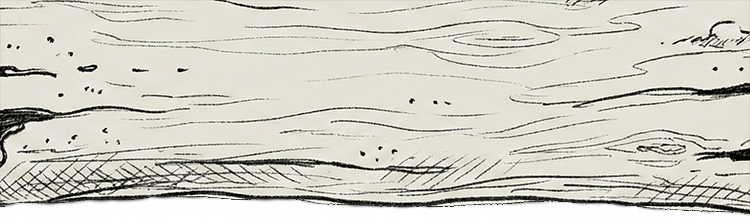
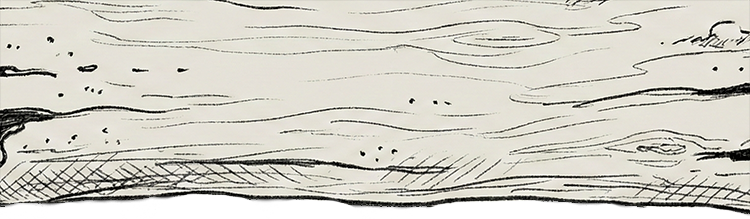
fix bugs

diff --git a/frontend-app/lib/navigation/main_scaffold.dart b/frontend-app/lib/navigation/main_scaffold.dart
@@ -80,6 +80,13 @@ class MainScaffoldState extends State<MainScaffold> {
 
   @override
   Widget build(BuildContext context) {
+    // 🔥 定义自定义标题栏的总高度（根据你的图片实际情况调整）
+    // 这个高度需要包含状态栏高度 + 标题内容高度 + 底部不规则边缘延伸出的高度
+    const double customHeaderHeight = 130.0; // 🔥 你可以根据实际显示效果微调这个数字
+
+    // 获取状态栏高度，用于后续计算内边距
+    final double statusBarHeight = MediaQuery.of(context).padding.top;
+
     return PopScope(
       // 拦截返回键，防止返回到 LandingPage
       canPop: false, // 不允许返回到上一页
@@ -113,41 +120,74 @@ class MainScaffoldState extends State<MainScaffold> {
         }
       },
       child: Scaffold(
-        appBar: AppBar(
-          automaticallyImplyLeading: false, // 去掉返回箭头
-          title: Row(
-            mainAxisSize: MainAxisSize.min,
-            children: [
-              // 海獭emoji作为图标
-              const Text('🦦', style: TextStyle(fontSize: 28)),
-              const SizedBox(width: 8),
-              const Text(
-                'CalOtter',
-                style: TextStyle(
-                  fontFamily: 'PatrickHand',
-                  fontSize: 24,
-                  fontWeight: FontWeight.w700,
+        // 🔥 关键修改 1: 彻底移除标准的 appBar 属性
+        // appBar: AppBar( ... ),
+
+        // 🔥 关键修改 2: 将 body 改为 Stack
+        body: Stack(
+          children: [
+            // --- 2.1 底层：页面内容 ---
+            Positioned.fill(
+              // ✅ 这里的 Padding 很重要。
+              // 我们需要让页面内容从顶部向下偏移一定的距离，否则内容会被标题栏完全挡住。
+              // 偏移量通常是 (状态栏高度 + 标准导航栏高度) 左右，不需要完全等于 customHeaderHeight，
+              // 这样可以让内容稍微滑入不规则边缘的下方。
+              top: statusBarHeight + kToolbarHeight,
+              child: _selectedIndex < _pages.length
+                  ? _pages[_selectedIndex]
+                  : _pages[0],
+            ),
+
+            // --- 2.2 顶层：自定义不规则标题栏 ---
+            Positioned(
+              top: 0,
+              left: 0,
+              right: 0,
+              height: customHeaderHeight, // 设置自定义标题区域的高度
+              child: Container(
+                // ✅ 使用 BoxDecoration 设置背景图
+                decoration: const BoxDecoration(
+                  image: DecorationImage(
+                    image: AssetImage('assets/images/title.png'),
+                    // 🔥 关键：使用 BoxFit.cover 并顶部对齐
+                    // 这样可以保证图片宽度铺满，且顶部固定，底部的透明不规则区域自然延伸
+                    fit: BoxFit.cover,
+                    alignment: Alignment.topCenter,
+                  ),
+                ),
+                // ✅ 这是一个安全区域和内容的容器
+                child: Padding(
+                  // Padding 用于把标题文字推到合适的位置，避开状态栏
+                  padding: EdgeInsets.only(
+                    top: statusBarHeight + 10, // 状态栏高度 + 一点微调
+                    left: 16,
+                    bottom: 20, // 底部留出空间给不规则边缘
+                  ),
+                  // 这里放原本 AppBar title 里的 Row
+                  child: Row(
+                    crossAxisAlignment: CrossAxisAlignment.center, // 确保垂直居中对齐
+                    children: [
+                      const Text('🦦', style: TextStyle(fontSize: 28)),
+                      const SizedBox(width: 8),
+                      const Text(
+                        'CalOtter',
+                        style: TextStyle(
+                          fontFamily: 'PatrickHand',
+                          fontSize: 24,
+                          fontWeight: FontWeight.w700,
+                          // ✅ 确保文字颜色在背景上清晰可见，如果背景偏浅可能需要深色文字
+                          color: Colors.black87,
+                        ),
+                      ),
+                    ],
+                  ),
                 ),
               ),
-            ],
-          ),
-          flexibleSpace: Container(
-            decoration: BoxDecoration(
-              image: DecorationImage(
-                image: AssetImage('assets/images/title.png'),
-                fit: BoxFit.cover,
-              ),
             ),
-          ),
-          backgroundColor: Colors.transparent,
-          elevation: 0,
+          ],
         ),
-        // 安全检查：防止索引越界
-        body: _selectedIndex < _pages.length
-            ? _pages[_selectedIndex]
-            : _pages[0],
-        
-        // 🦦 新的海獭浮动导航 - 放在 Scaffold 顶层，不会被页面内容遮挡
+
+        // 🦦 海獭浮动导航 (保持不变)
         floatingActionButton: OtterFloatingNav(
           selectedIndex: _selectedIndex,
           onItemTapped: _onItemTapped,

diff --git a/frontend-app/lib/features/inventory/pages/inventory_page.dart b/frontend-app/lib/features/inventory/pages/inventory_page.dart
@@ -569,8 +569,10 @@ class _InventoryPageState extends State<InventoryPage>
               'assets/wood_background.png',
               fit: BoxFit.cover,
               // 如果背景图路径不对/资源未打包，使用错误处理
-              errorBuilder: (context, error, stackTrace) =>
-                  Image.asset('assets/images/sketch_paper_transparent.png', fit: BoxFit.cover),
+              errorBuilder: (context, error, stackTrace) => Image.asset(
+                'assets/images/sketch_paper_transparent.png',
+                fit: BoxFit.cover,
+              ),
             ),
           ),
 
@@ -626,15 +628,17 @@ class _InventoryPageState extends State<InventoryPage>
                 // 【新设计】层级 B (上层): 悬挂的书签 (Bookmarks)
                 // 说明：把书签放在羊皮纸之后，这样它就会浮在纸张上面 (Z轴在前)
                 // 这样当列表滚动时，内容会滑入书签背后的区域，营造真正的"夹在书签下的纸张"效果
+                // 🔥 关键修改 1: 向上提 15px，让书签顶部"钻"进木纹标题栏下方
+                // 这样无论木纹边缘怎么不规则，书签看起来都是从木板后面伸出来的
                 // =========================================
                 Positioned(
-                  top: 0,
+                  top: -15, // 🔥 关键修改 1: 向上提 15px
                   left: 0,
                   right: 0,
                   child: SafeArea(
                     bottom: false,
                     child: Container(
-                      height: 90, // 【建议】稍微调高一点点，给书签多一点活动空间（从 80 改为 90）
+                      height: 110, // 🔥 关键修改 2: 增加容器高度，容纳变长的书签
                       padding: const EdgeInsets.symmetric(horizontal: 10),
                       alignment: Alignment.topCenter,
                       child: Row(
@@ -823,12 +827,15 @@ class _InventoryPageState extends State<InventoryPage>
   ) {
     final bool isSelected = _tabController.index == index;
 
-    // 动画参数
-    // 选中时：书签变长 (76)，向下伸出
-    // 未选时：书签变短 (56)，向上收起，且颜色变暗
-    final double height = isSelected ? 76.0 : 56.0; // 缩小20%
+    // 动画参数调整
+    // 🔥 关键修改 3: 整体增加高度 (原 76/56 -> 现 95/75)
+    // 因为顶部约 15px 被木纹遮住了，我们需要补回来
+    final double height = isSelected ? 95.0 : 75.0;
     final double width = 65.0;
-    final double topMargin = isSelected ? 0.0 : -8.0; // 未选中时稍微往上缩一点（缩小20%）
+
+    // 🔥 关键修改 4: 调整未选中时的收起幅度
+    // 未选中时向上收起更多，营造层次感
+    final double topMargin = isSelected ? 0.0 : -15.0;
 
     return GestureDetector(
       onTap: () {
@@ -872,11 +879,11 @@ class _InventoryPageState extends State<InventoryPage>
           children: [
             // 文字
             Padding(
-              padding: const EdgeInsets.only(bottom: 8.0),
+              padding: const EdgeInsets.only(bottom: 12.0), // 文字稍微稍微往上提一点点
               child: Text(
                 label,
                 style: GoogleFonts.caveat(
-                  fontSize: 12,
+                  fontSize: 14, // 稍微加大字体
                   fontWeight: FontWeight.bold,
                   color: isSelected ? Colors.black87 : Colors.white70,
                 ),
@@ -901,7 +908,7 @@ class _InventoryPageState extends State<InventoryPage>
       // 【旧设计】padding: const EdgeInsets.symmetric(horizontal: 16, vertical: 16), // 旧设计中需要左右和上下 padding
       padding: const EdgeInsets.fromLTRB(
         0,
-        110, // 【关键修复】从 100 改为 110，计算公式：书签高度(约90) + 视觉间隙(20) = 110
+        130, // 🔥 关键修改 5: 从 110 改为 130 (适配变长的书签)
         0,
         0,
       ), // 新设计：顶部留出书签空间，左右为0（羊皮纸容器已有边距）
@@ -919,7 +926,7 @@ class _InventoryPageState extends State<InventoryPage>
       // 【旧设计】padding: const EdgeInsets.symmetric(horizontal: 16, vertical: 16), // 旧设计中需要左右和上下 padding
       padding: const EdgeInsets.fromLTRB(
         0,
-        110, // 【关键修复】从 100 改为 110，计算公式：书签高度(约90) + 视觉间隙(20) = 110
+        130, // 🔥 关键修改 5: 从 110 改为 130 (适配变长的书签)
         0,
         0,
       ), // 新设计：顶部留出书签空间，左右为0（羊皮纸容器已有边距）
@@ -969,7 +976,7 @@ class _InventoryPageState extends State<InventoryPage>
       // 【旧设计】padding: const EdgeInsets.fromLTRB(16, 16, 16, 100), // 旧设计中顶部需要留出空间给标题
       padding: const EdgeInsets.fromLTRB(
         0,
-        110, // 【关键修复】从 100 改为 110，计算公式：书签高度(约90) + 视觉间隙(20) = 110
+        130, // 🔥 关键修改 5: 从 110 改为 130 (适配变长的书签)
         // 确保第一个项目从书签下方可见，上滑时会平滑地滑入书签背后的区域
         0,
         100,
@@ -1075,7 +1082,7 @@ class _InventoryPageState extends State<InventoryPage>
       // 【旧设计】padding: const EdgeInsets.fromLTRB(16, 16, 16, 100), // 旧设计中顶部需要留出空间给标题
       padding: const EdgeInsets.fromLTRB(
         0,
-        110, // 【关键修复】从 100 改为 110，计算公式：书签高度(约90) + 视觉间隙(20) = 110
+        130, // 🔥 关键修改 5: 从 110 改为 130 (适配变长的书签)
         // 确保第一个项目从书签下方可见，上滑时会平滑地滑入书签背后的区域
         0,
         100,